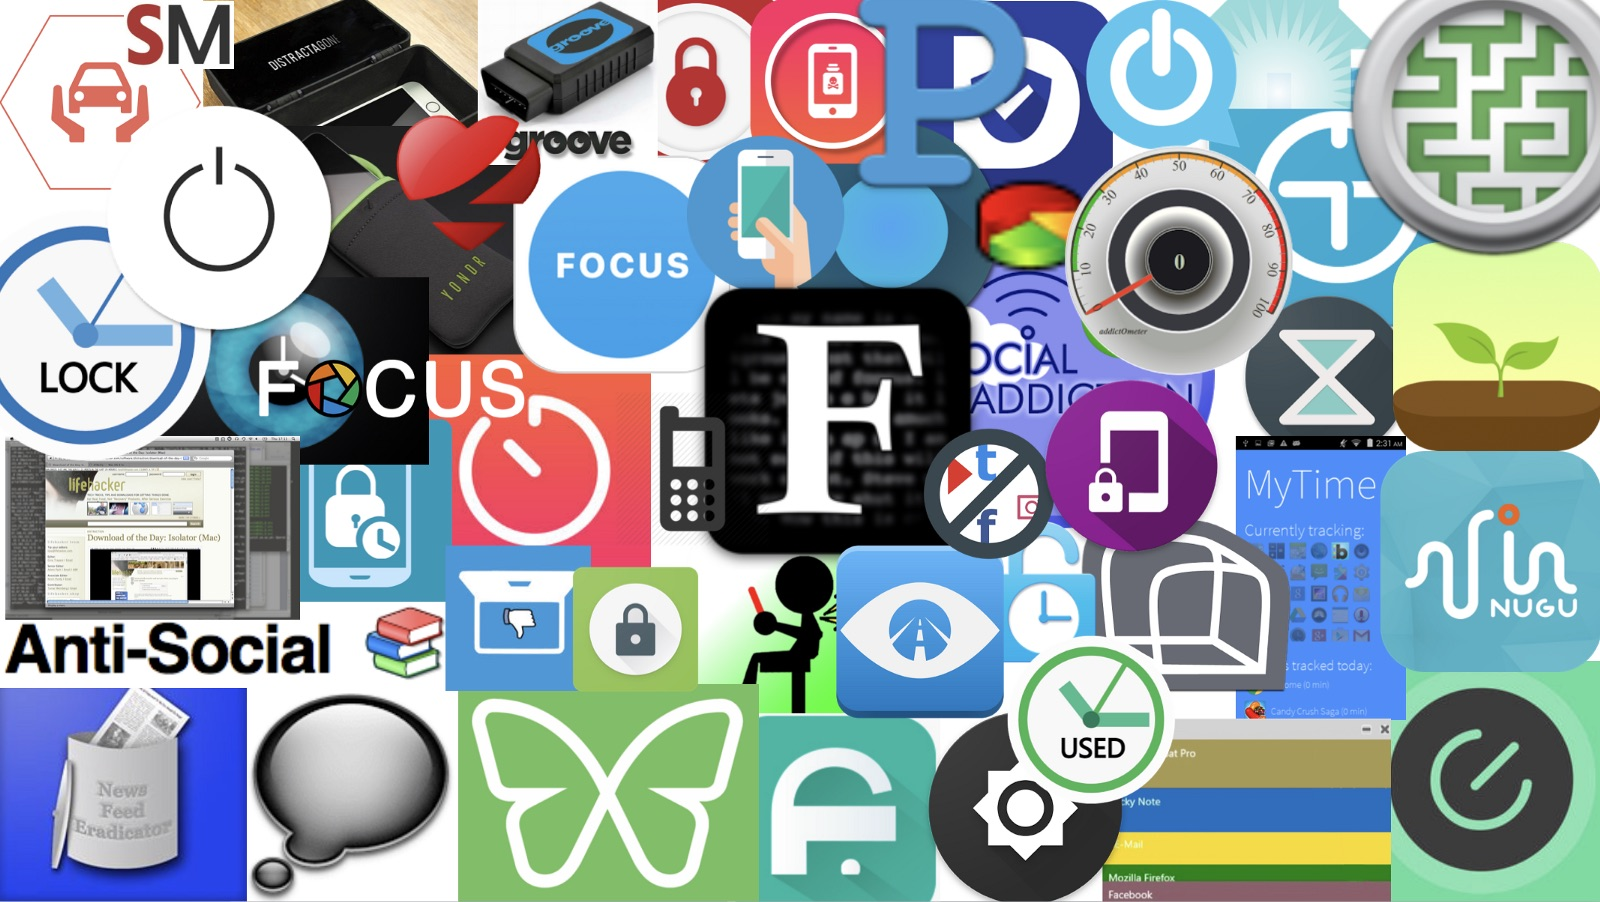
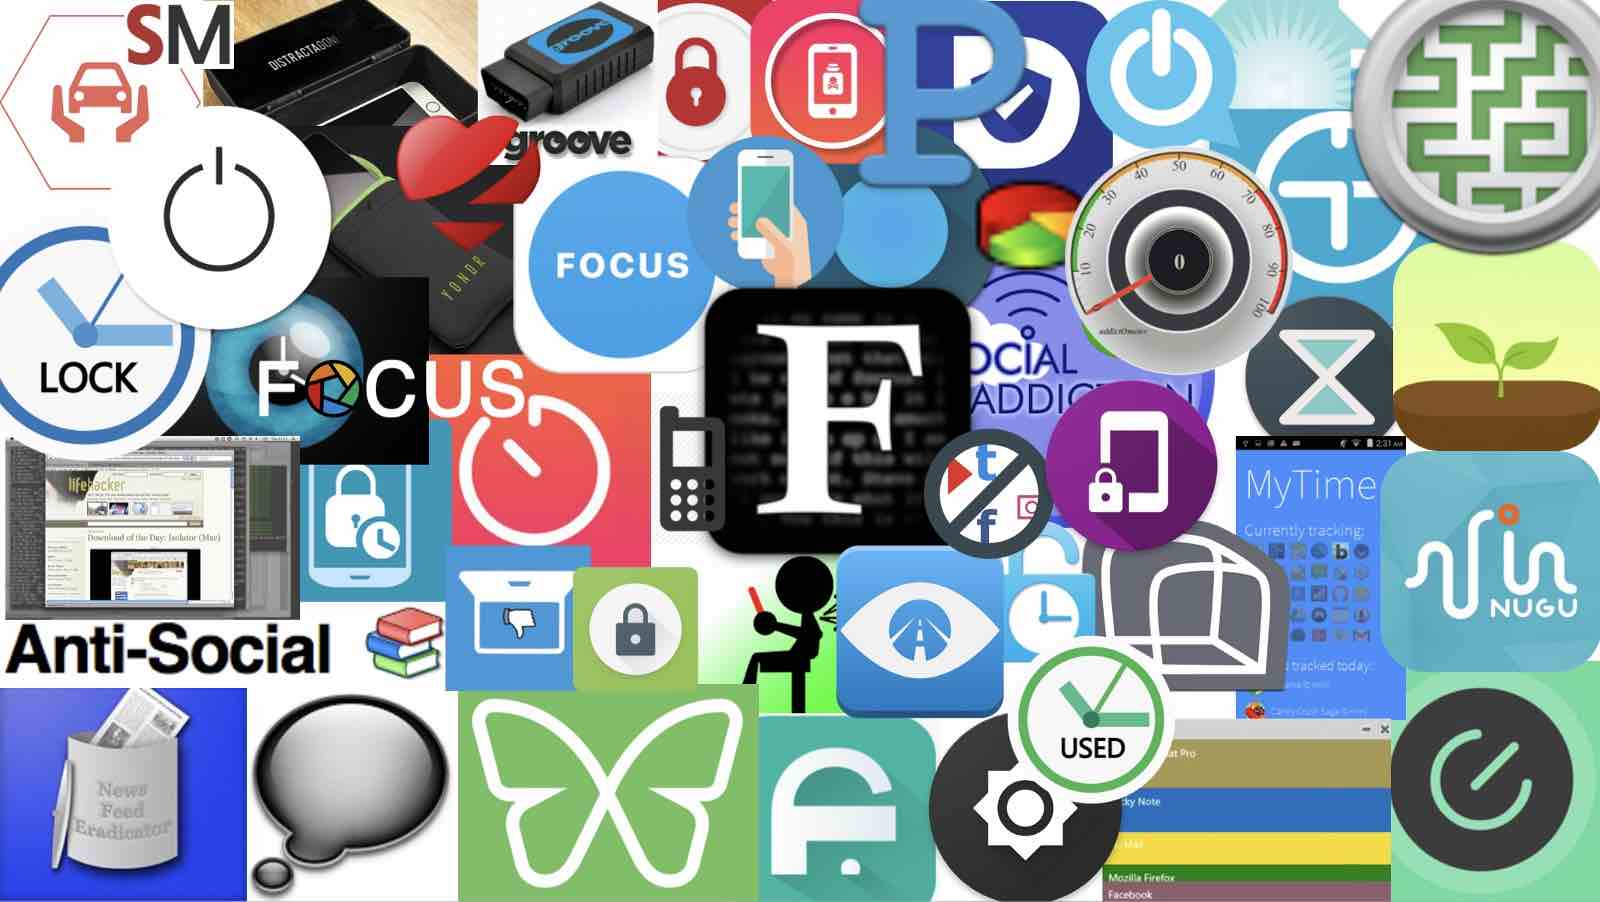
reduce image sizes

diff --git a/content/post/2018-11-02_how-to-build-safari-app-extensions.html b/content/post/2018-11-02_how-to-build-safari-app-extensions.html
@@ -8,7 +8,7 @@ categories:
   - browser extensions
   - Xcode
   - safari
-teaser: "/post/2018-11-02-how-to-build-safari-app-extensions/10_add_safari_ext.png"
+teaser: "/post/2018-11-02-how-to-build-safari-app-extensions/10_add_safari_ext.jpg"
 
 ---
 

diff --git a/content/post/2017-07-06-ulysses-in-cyberspace.html b/content/post/2017-07-06-ulysses-in-cyberspace.html
@@ -7,7 +7,7 @@ date: 2017-07-06
 categories:
   - self-control
   - tech design
-teaser: "/post/2018-10-28-ulysses-in-cyberspace/preview.png"
+teaser: "/post/2018-10-28-ulysses-in-cyberspace/preview.jpg"
 
 ---
 
